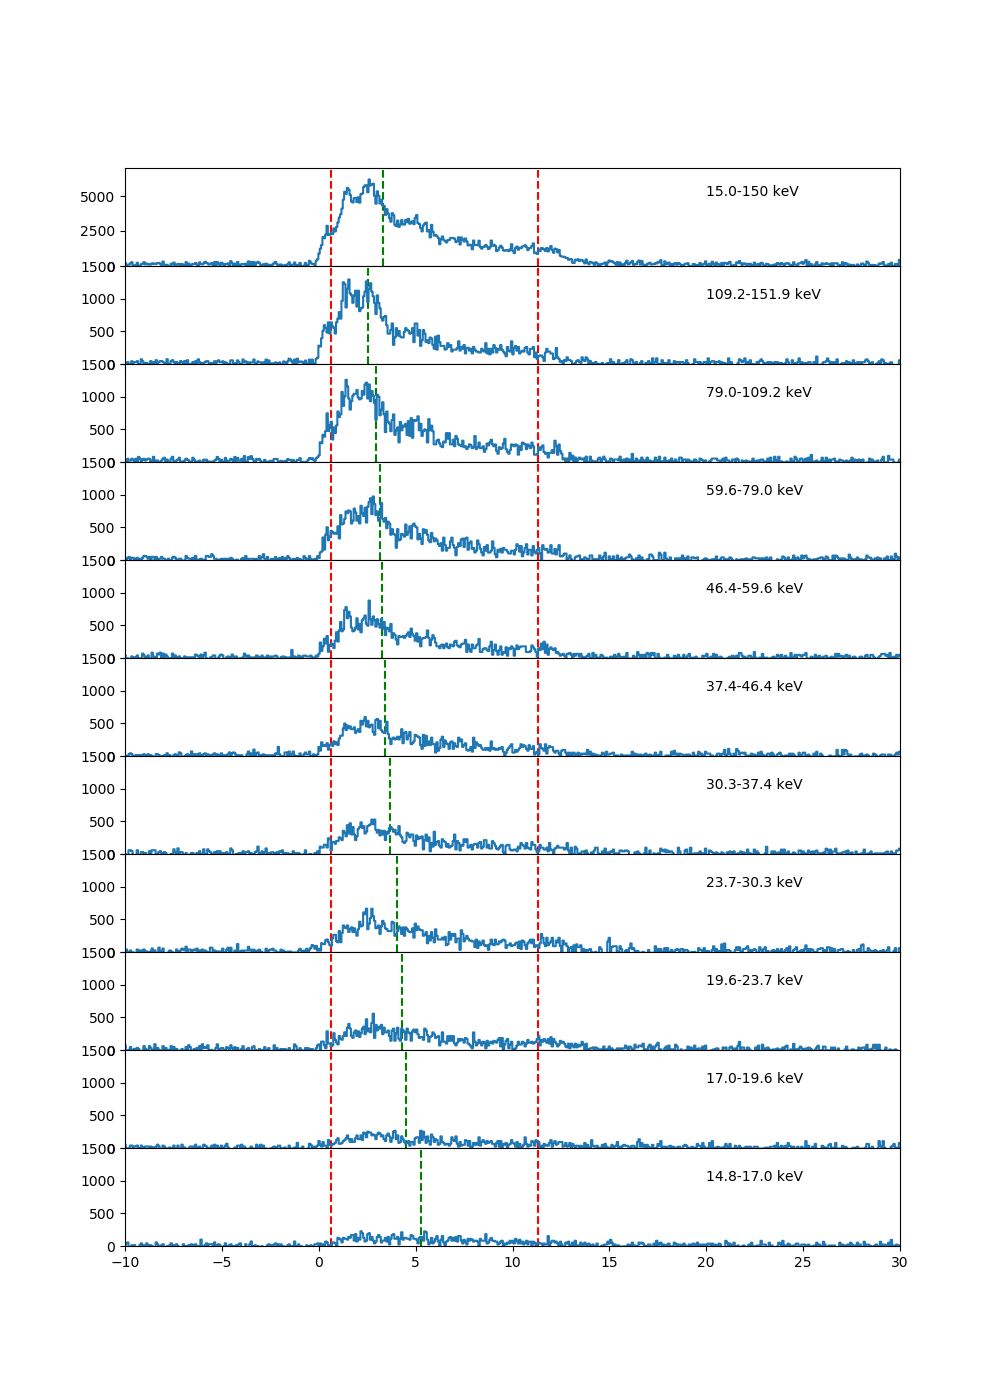
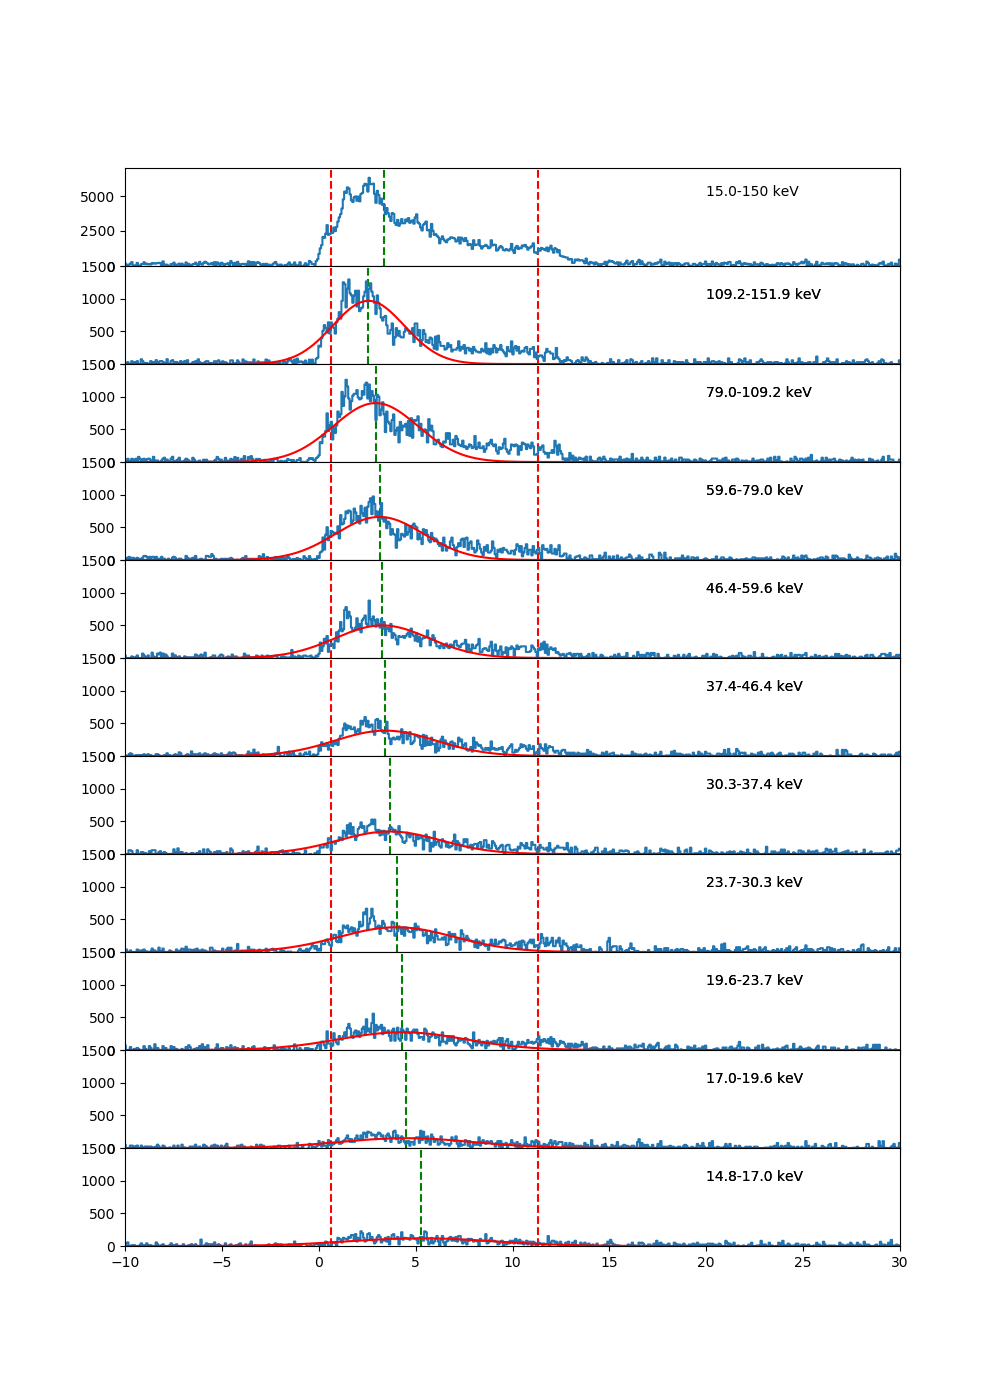
加入单个高斯模型

diff --git a/GBM_ch_gaussian_fit.py b/GBM_ch_gaussian_fit.py
@@ -709,7 +709,13 @@ class GRB:
 				emax=emax[channel[i+1]+1:channel[i]+1]
 				x,y=optimize.curve_fit(gaussian,self.tbins,totalNet)
 				tpeak=x[1]
-				peaktime.append(tpeak)							
+				peaktime.append(tpeak)
+				a1=x[0]
+				t1=x[1]	
+				l1=x[2]
+				y=gaussian(t0,a1,t1,l1)
+	
+				axes[i+1].plot(t0,y,'r')								
 				axes[i+1].plot(self.tbins,totalNet,linestyle='steps')
 				axes[i+1].set_xlim(-10,30)
 				axes[i+1].set_ylim(0,1500)
@@ -717,7 +723,7 @@ class GRB:
 				axes[i+1].vlines(b,0,1500,'red',linestyle='dashed')
 				axes[i+1].vlines(tpeak,0,1500,'green',linestyle='dashed')
 				axes[i+1].text(20,1000,str(round(emin[0],1))+'-'+str(round(emax[-1],1))+' keV',fontsize=10)
-				
+				axes[i+1].plot(t0,y,'r')
 		else:
 			cNet=np.array([f['/'+Det[11]+'/ch'+str(ch)][()][2] \
 										for ch in np.arange(channel[-1]+1,channel[0]+1) ])
